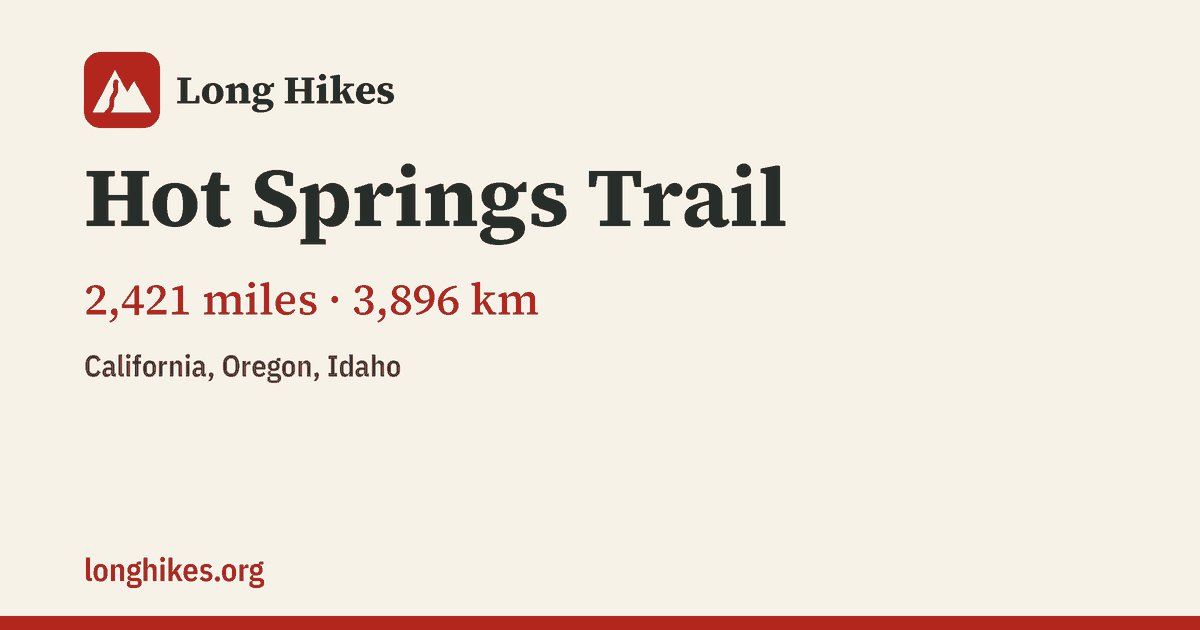
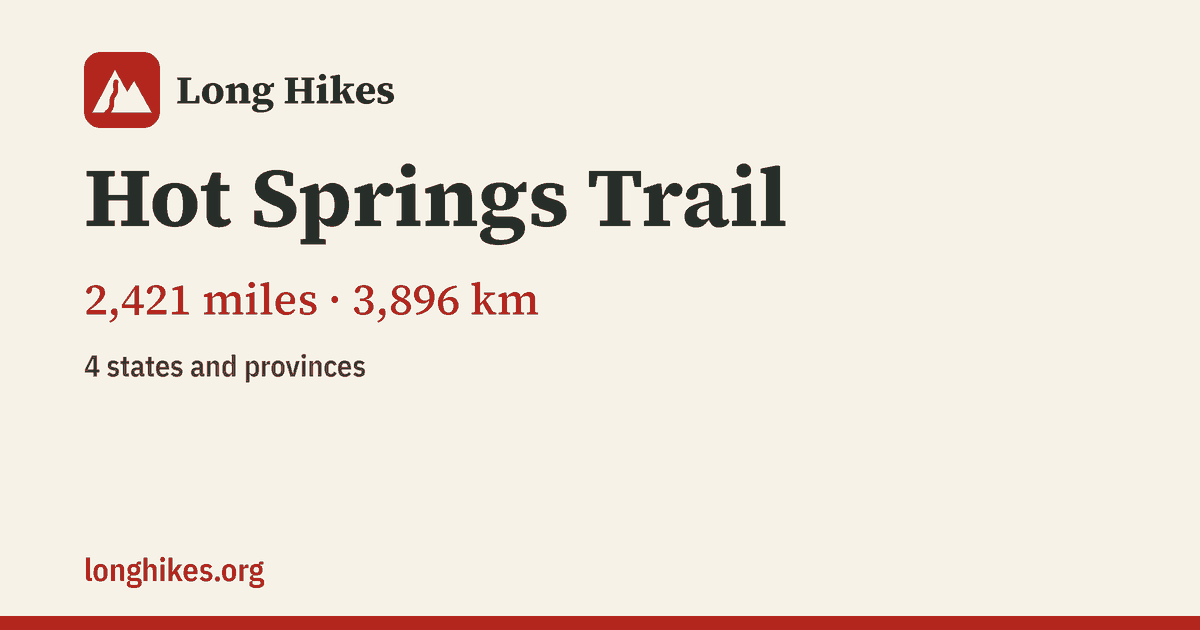
Redraw the two social cards whose states changed, and leave the plain Places page's shortcut label as it was

Changed region(s): [[0.0617, 0.5429, 0.3392, 0.6032]]

diff --git a/web/olt/regions.py b/web/olt/regions.py
@@ -219,7 +219,7 @@ def regions_index_page(records, site, infos=()):
   <p class="page-head__lede">The {len(records)} trails by state and province, grouped into parts of the
   United States ({n_us}) and Canada ({n_ca}). A trail that crosses several states is on each one&rsquo;s page.{lede_more}</p>
   </div></header>
-  <nav class="lists-row" aria-label="Jump to a part of the country or a kind of place"><ul>{"".join(jump)}</ul></nav></div></div>
+  <nav class="lists-row" aria-label="Jump to a part of the country{" or a kind of place" if place_infos else ""}"><ul>{"".join(jump)}</ul></nav></div></div>
 <div class="container section places">{blocks}</div>{foot}"""
     description = (f"Where the {len(records)} long trails and routes are: {n_us} in the United States and {n_ca} in Canada, "
                    f"by state and province, with the number in each.")

diff --git a/web/tests/test_place_links.py b/web/tests/test_place_links.py
@@ -66,6 +66,7 @@ class HubTest(unittest.TestCase):
         _, _, with_places = regions.regions_index_page(self.records, S, infos=self.infos)
         stripped = re.sub(r'<section class="places__group" aria-labelledby="(?:parks|ranges|wilderness)">.*?</section>',
                           "", str(with_places), flags=re.S)
+        stripped = stripped.replace(" or a kind of place", "")
         stripped = re.sub(r'<li><a href="#(?:parks|ranges|wilderness)">.*?</li>', "", stripped)
         stripped = stripped.replace(
             " Parks, mountain ranges and wilderness areas with three or more trails have pages too.", "")
